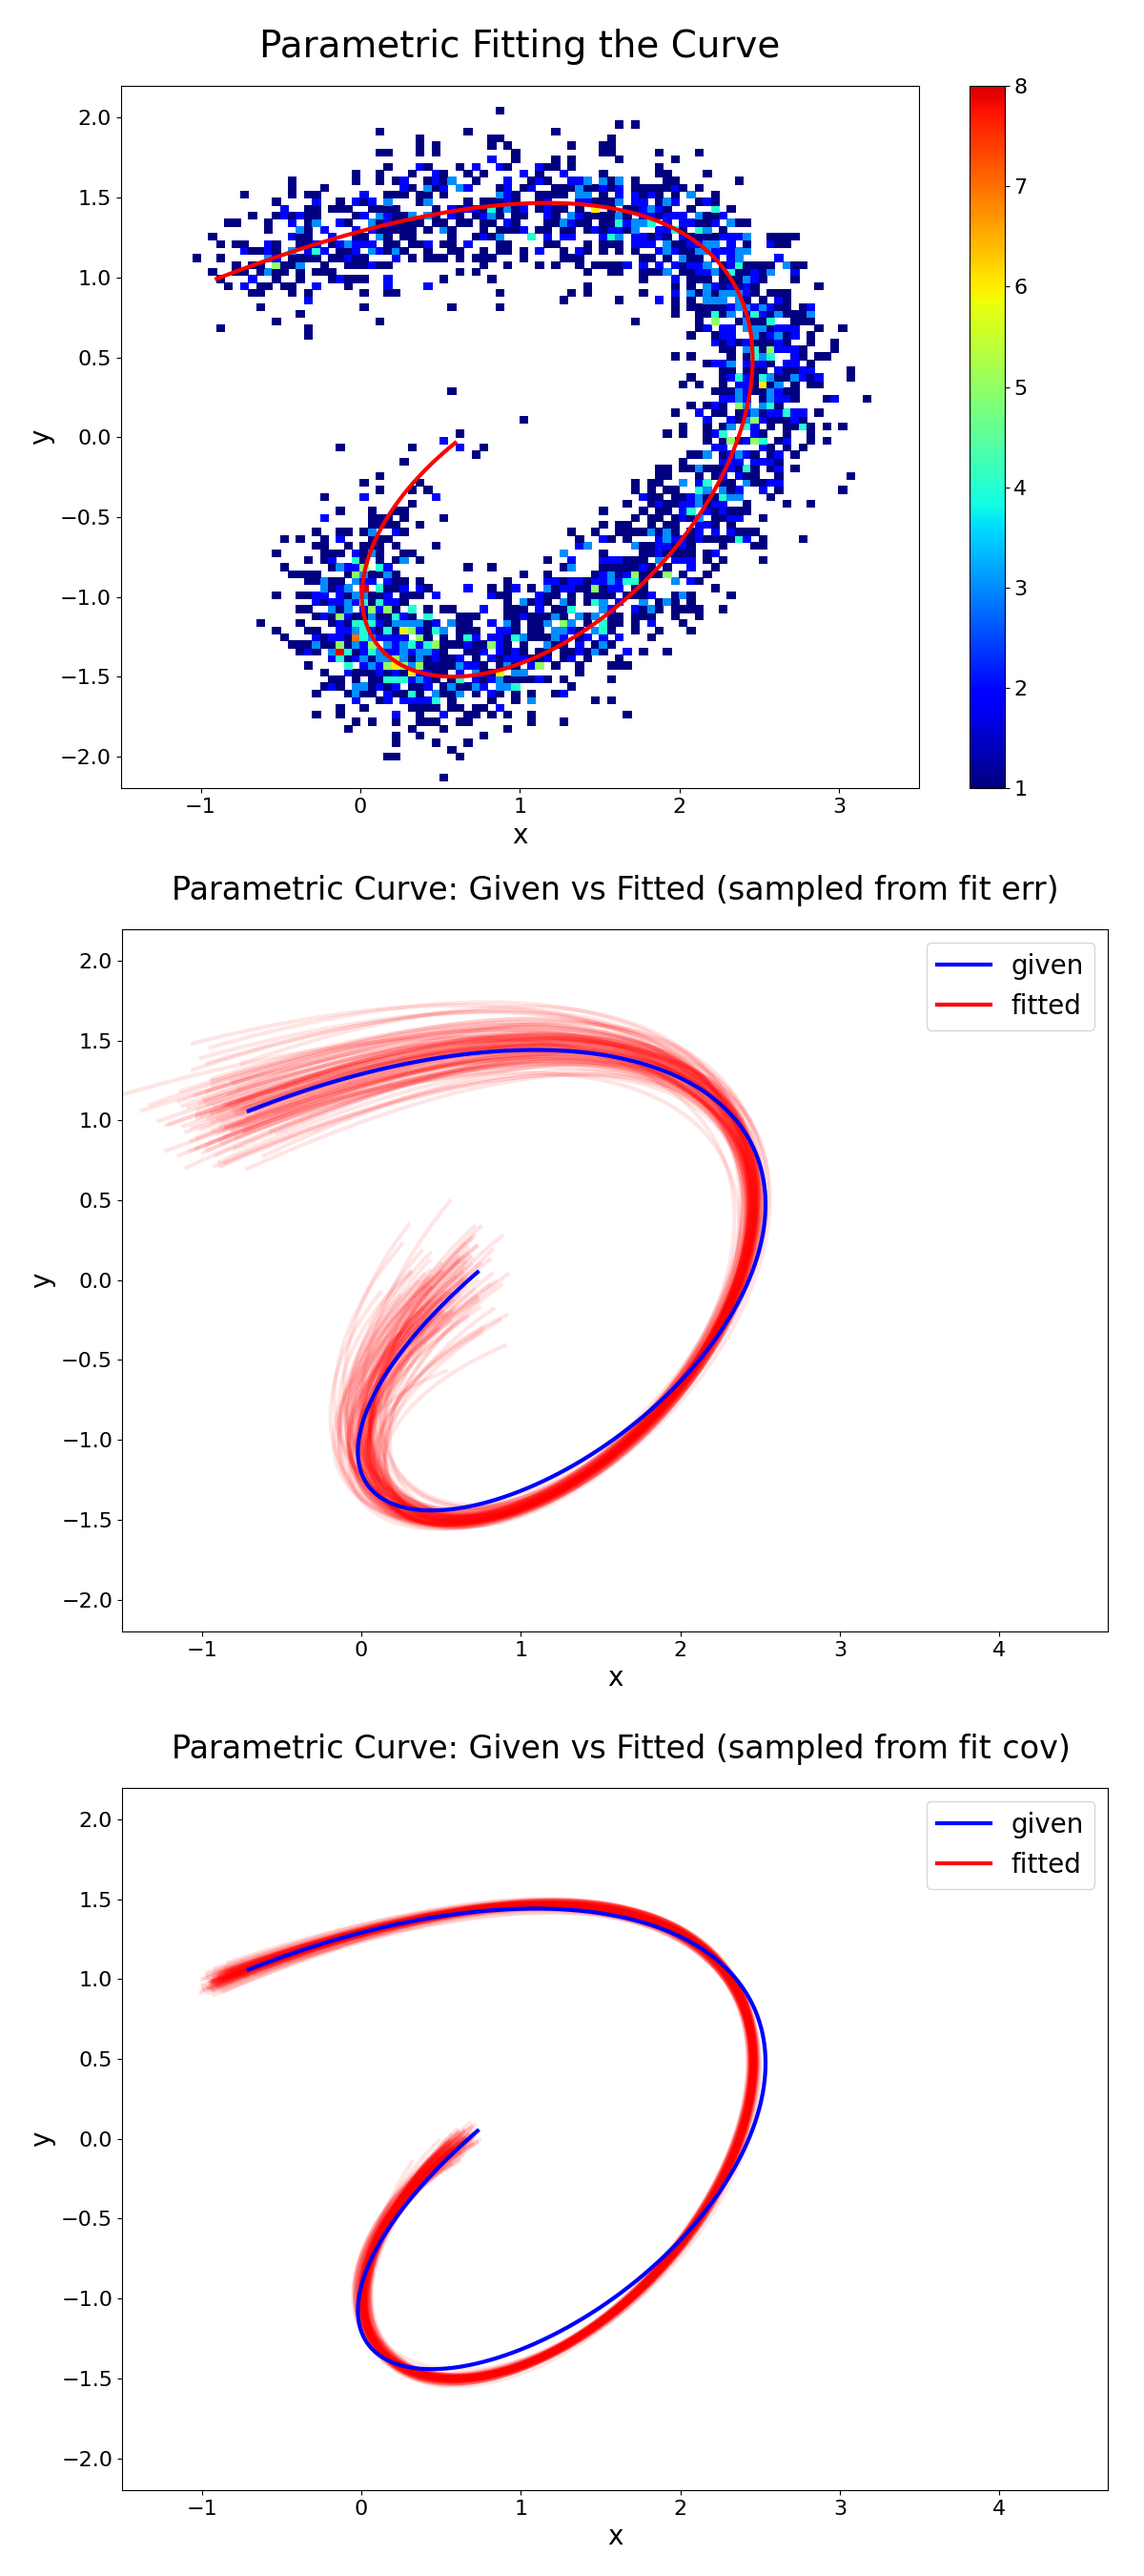
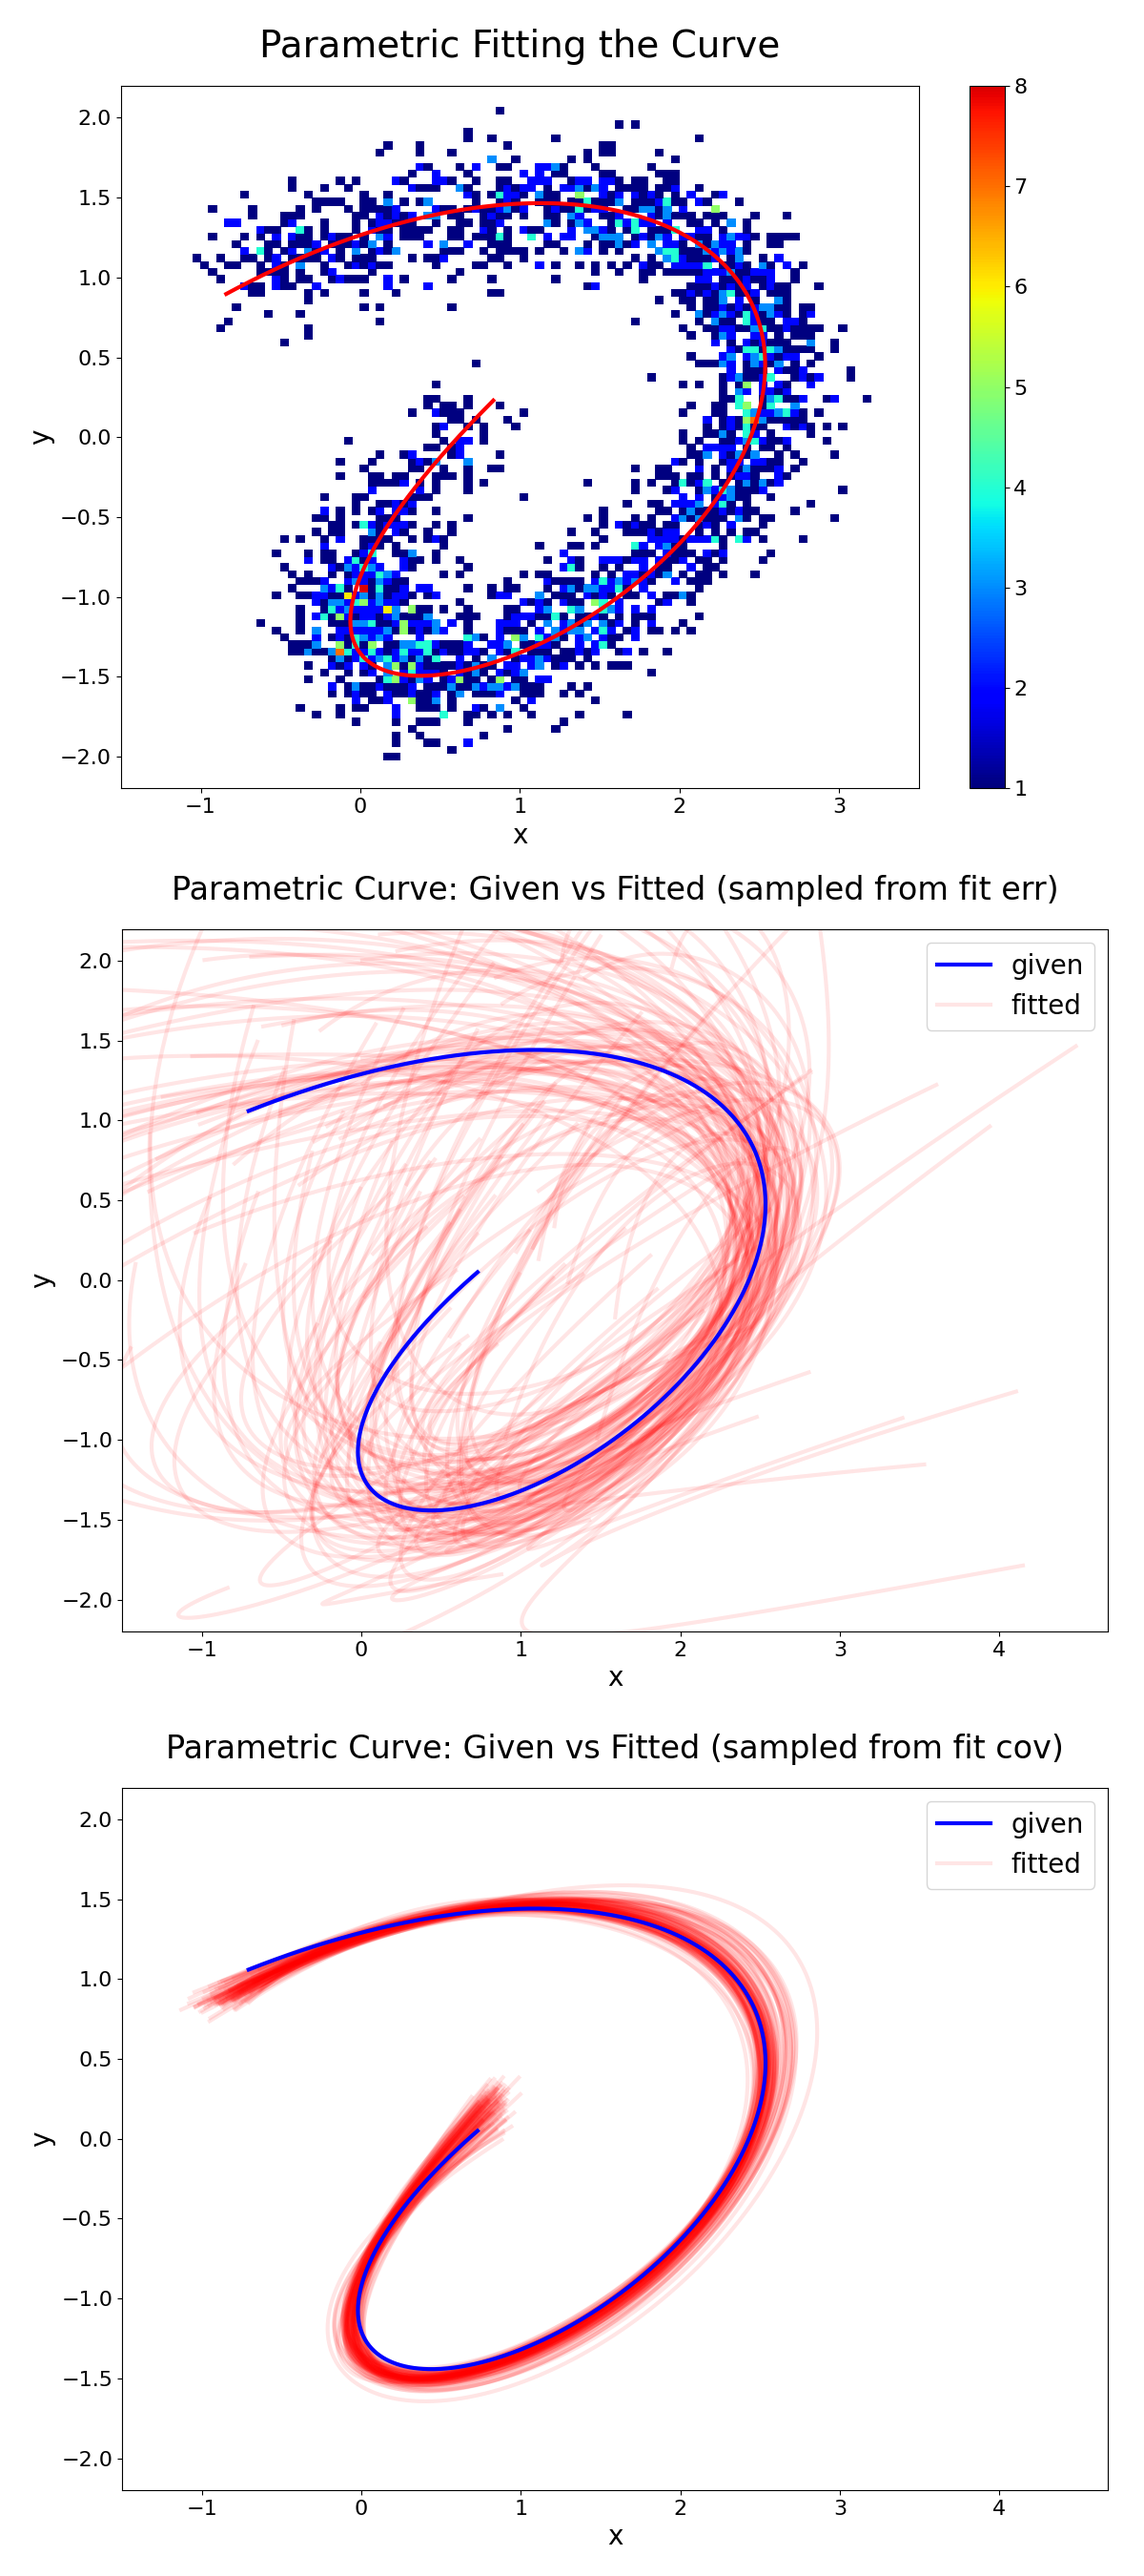
- updated to the most current run

diff --git a/parametricFit2D.py b/parametricFit2D.py
@@ -785,16 +785,23 @@ def example_parametricFit2D():
     ax[0].set_xlim(*rangeXY[0])
     ax[0].set_ylim(*rangeXY[1])
 
+
+    covMatrix = parXYErr[2].copy()
+    #for i in range(len(parXYOpt[0]+parXYOpt[1])):
+    #    for j in range(len(parXYOpt[0]+parXYOpt[1])): 
+    #        if i != j: covMatrix[i][j] = 0
+    titleName = "Parametric Curve: Given vs Fitted (sampled from fit cov)"
+
     errCurveN = 100
     print("Sampling the fit curve from the parameter standard errors...", end="\r" )
     parXN, parYN = len(parXYOpt[0]), len(parXYOpt[1])
-    parXYOptSamps = np.random.multivariate_normal(parXYOpt[0]+parXYOpt[1], parXYErr[2], size=errCurveN)
+    parXYOptSamps = np.random.multivariate_normal(parXYOpt[0]+parXYOpt[1], covMatrix, size=errCurveN)
     for parXYOptSamp in parXYOptSamps:
         sampFitCurveX = funcXY[0](fitT, parXYOptSamp[:parXN])
         sampFitCurveY = funcXY[1](fitT, parXYOptSamp[parXN:]) 
         plotFitted = ax[1].plot(sampFitCurveX, sampFitCurveY, linewidth=3, color="red", alpha=0.1)[0]
     plotGiven = ax[1].plot(curveX, curveY, linewidth=3, color="blue")[0]
-    ax[1].set_title("Parametric Curve: Given vs Fitted (sampled from fit err)", fontsize=24, y=1.03)
+    ax[1].set_title(titleName, fontsize=24, y=1.03)
     ax[1].set_xlabel("x", fontsize=20)
     ax[1].set_ylabel("y", fontsize=20)
     ax[1].set_aspect("equal")
